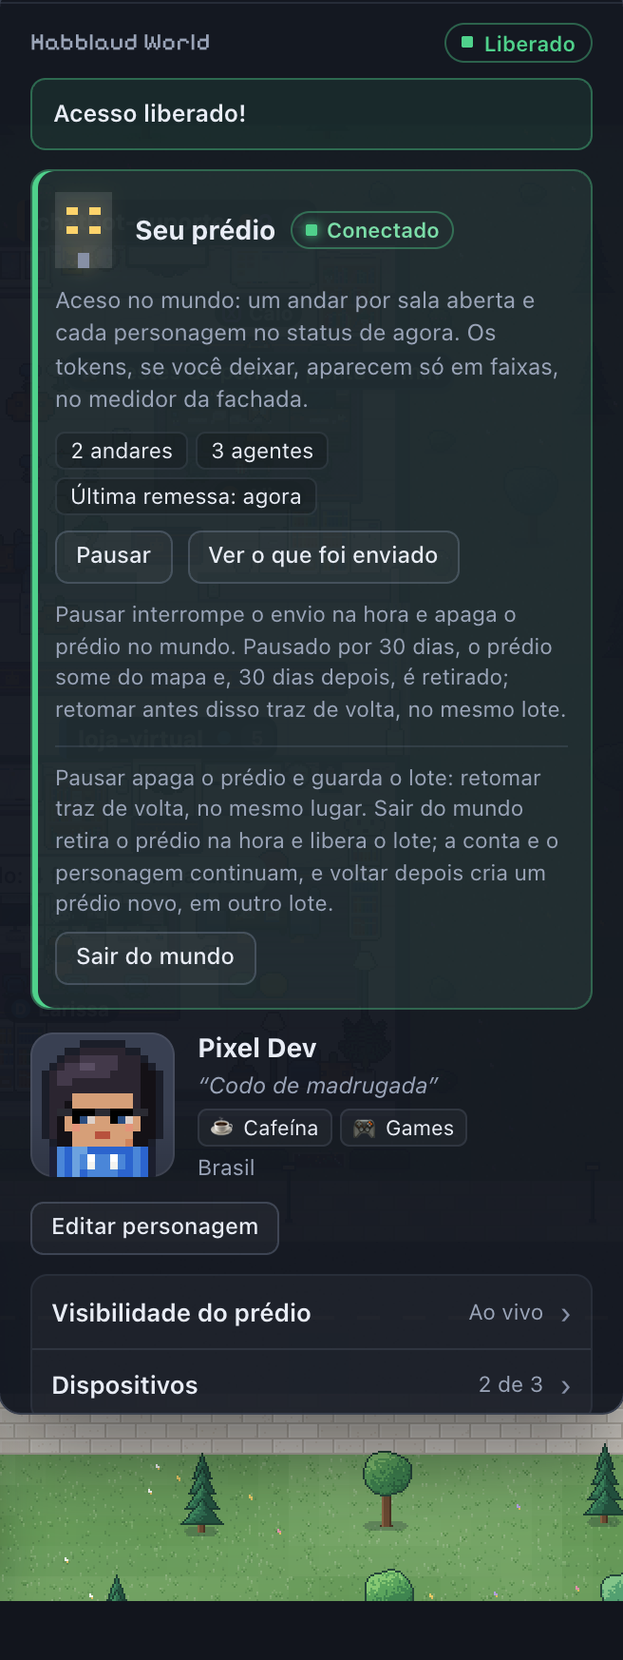
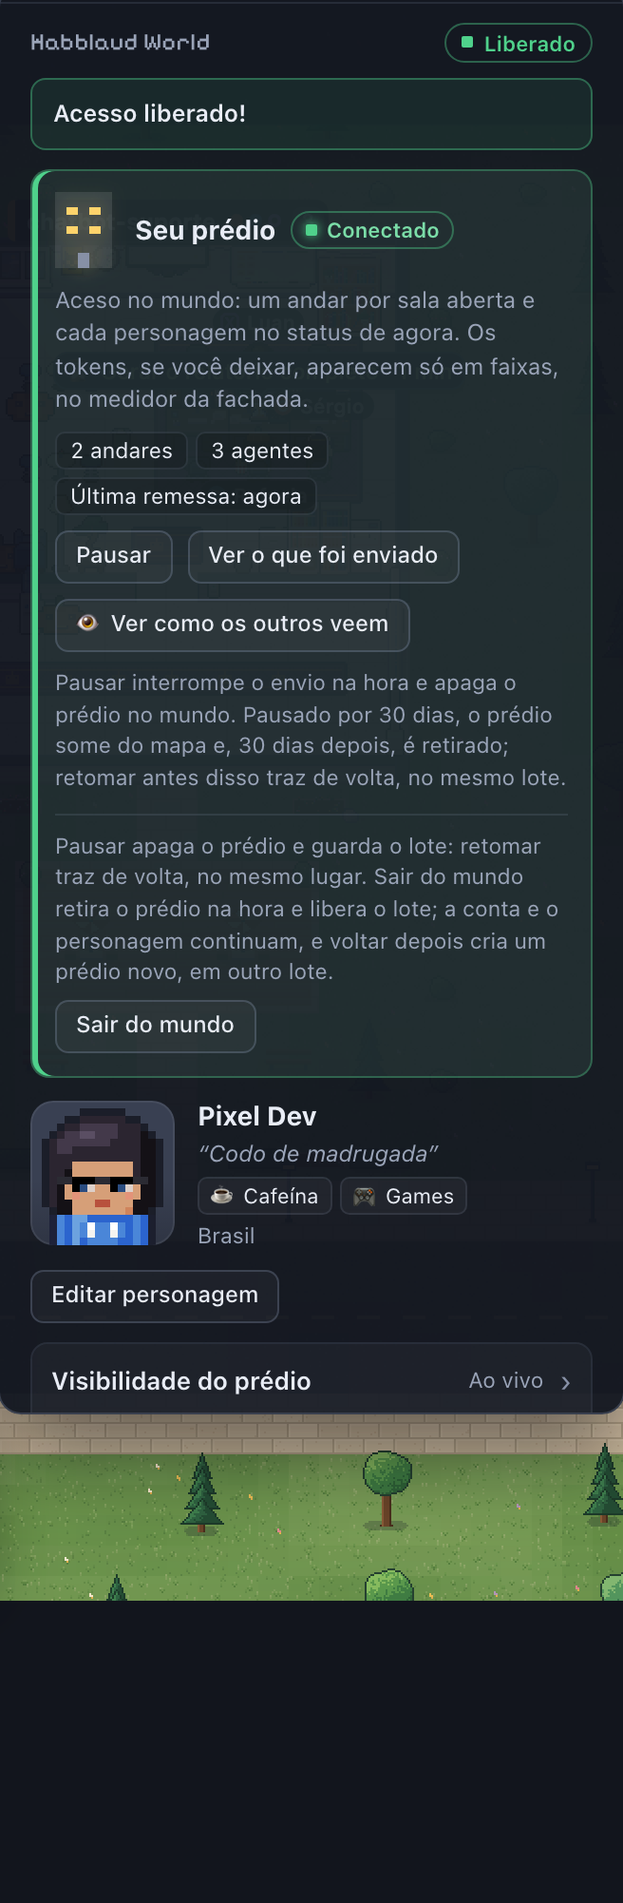
World: traduções, CHANGELOG, READMEs e as capturas da visita
Textos da visita em inglês, espanhol e francês (a porta vira "Entrar (E)"
e o botão "Sair do prédio", sem colidir com o Entrar e o Sair da conta).
O CHANGELOG ganha "Visitar um prédio (Fase 4)"; os quatro READMEs, a
linha da visita com as capturas. npm run shots:world fotografa
world-visita.png e world-visita-painel.png (e confere que nenhuma rota fora
de /api/world/* sai durante a visita); a cidade e o cartão Seu prédio,
refeitos. O exemplo da demonstração alterna os status com variedade.

Claude-Session: https://claude.ai/code/session_0184odBfMtHbNdi3CwshGHuK

diff --git a/shared/locales/fr.ts b/shared/locales/fr.ts
@@ -3020,11 +3020,8 @@ export const FR: Readonly<Record<string, string>> = {
   "correr": "courir",
   "clique": "clic",
   "ir até lá": "y aller",
-  "porta": "porte",
   "escritório": "bureau",
   "Chegue perto da porta de um prédio e aperte E.": "Approchez-vous de la porte d'un immeuble et appuyez sur E.",
-  "Visitar o prédio de {0}: em breve.": "Visiter l'immeuble de {0} : bientôt.",
-  "Visitar: em breve.": "Visiter : bientôt.",
   "Devagar: o mundo pediu um tempo entre as ações.": "Doucement : le monde demande une pause entre les actions.",
   "Aviso do Habblaud World.": "Avis de Habblaud World.",
   "Minimapa: clique para levar a câmera até lá": "Mini-carte : cliquez pour y déplacer la caméra",
@@ -3035,4 +3032,44 @@ export const FR: Readonly<Record<string, string>> = {
   "Você ficou um tempo parado.": "Vous êtes resté immobile un moment.",
   "O Habblaud World vai reiniciar: a conexão cai e volta sozinha.": "Habblaud World va redémarrer : la connexion coupe et revient toute seule.",
   "Sua conta saiu do mundo: o prédio volta com \"Voltar ao mundo\", em Configurações.": "Votre compte a quitté le monde : l'immeuble revient avec « Revenir dans le monde », dans Réglages.",
+  "Entrar (E)": "Entrer (E)",
+  "entrar": "entrer",
+  "Sair do prédio": "Sortir",
+  "Ver como os outros veem": "Voir comme les autres",
+  "Entrar no seu prédio pela cidade e ver o que quem visita vê (sem nada do escritório real)": "Entrer dans votre immeuble par la ville et voir ce que voient les visiteurs (rien du vrai bureau)",
+  "Avisar quando alguém visitar": "Prévenir quand quelqu'un visite",
+  "Um aviso quando o primeiro visitante entra no seu prédio. Você vê só quantos estão lá dentro, nunca quem.": "Un avis quand le premier visiteur entre dans votre immeuble. Vous voyez seulement combien sont à l'intérieur, jamais qui.",
+  "Alguém entrou no seu prédio no Habblaud World.": "Quelqu'un est entré dans votre immeuble sur Habblaud World.",
+  "1 visitante agora": "1 visiteur en ce moment",
+  "{0} visitantes agora": "{0} visiteurs en ce moment",
+  "Este prédio não está no mundo agora.": "Cet immeuble n'est pas dans le monde en ce moment.",
+  "O prédio saiu do mundo: você voltou para a rua.": "L'immeuble a quitté le monde : vous êtes de retour dans la rue.",
+  "Chegue mais perto da porta para entrar.": "Approchez-vous de la porte pour entrer.",
+  "O prédio fechou a visitas: você voltou para a rua.": "L'immeuble a fermé aux visites : vous êtes de retour dans la rue.",
+  "Este prédio está fechado a visitas.": "Cet immeuble est fermé aux visites.",
+  "Você não pode mais ficar neste prédio: voltou para a rua.": "Vous ne pouvez plus rester dans cet immeuble : vous êtes de retour dans la rue.",
+  "Você não pode entrar neste prédio.": "Vous ne pouvez pas entrer dans cet immeuble.",
+  "O prédio está lotado (20 visitantes). Tente daqui a pouco.": "L'immeuble est plein (20 visiteurs). Réessayez dans un moment.",
+  "Esperando o dono": "Attend le propriétaire",
+  "visitante": "visiteur",
+  "Visitante": "Visiteur",
+  "Curtir": "J'aime",
+  "Curtir o prédio: em breve": "Aimer l'immeuble : bientôt",
+  "Sair do prédio (Esc)": "Sortir de l'immeuble (Échap)",
+  "Visita": "Visite",
+  "Salas do prédio": "Salles de l'immeuble",
+  "Só o nome, o papel, a ferramenta e o status de cada agente: o resto do escritório não sai do computador do dono.": "Seulement le nom, le rôle, l'outil et le statut de chaque agent : le reste du bureau ne quitte pas l'ordinateur du propriétaire.",
+  "Sair pelo elevador": "Sortir par l'ascenseur",
+  "elevador": "ascenseur",
+  "sair": "sortir",
+  "Saindo do prédio…": "Sortie de l'immeuble…",
+  "apagado": "éteint",
+  "discreto": "discret",
+  "modo discreto": "mode discret",
+  "Seu prédio, como os outros veem": "Votre immeuble, tel que les autres le voient",
+  "Prédio de {0}": "Immeuble de {0}",
+  "esperando o dono": "attend le propriétaire",
+  "de olho no terminal": "surveille le terminal",
+  "Prédio apagado: o dono pausou ou não está com o Habblaud aberto. As salas ficam escuras e vazias.": "Immeuble éteint : le propriétaire a mis en pause ou n'a pas Habblaud ouvert. Les salles sont sombres et vides.",
+  "Modo discreto: o dono não mostra os agentes. As salas aparecem vazias, com a luz acesa.": "Mode discret : le propriétaire ne montre pas les agents. Les salles paraissent vides, lumière allumée.",
 };

diff --git a/shared/locales/es.ts b/shared/locales/es.ts
@@ -3004,11 +3004,8 @@ export const ES: Readonly<Record<string, string>> = {
   "correr": "correr",
   "clique": "clic",
   "ir até lá": "ir allí",
-  "porta": "puerta",
   "escritório": "oficina",
   "Chegue perto da porta de um prédio e aperte E.": "Acércate a la puerta de un edificio y pulsa E.",
-  "Visitar o prédio de {0}: em breve.": "Visitar el edificio de {0}: próximamente.",
-  "Visitar: em breve.": "Visitar: próximamente.",
   "Devagar: o mundo pediu um tempo entre as ações.": "Más despacio: el mundo pidió una pausa entre las acciones.",
   "Aviso do Habblaud World.": "Aviso de Habblaud World.",
   "Minimapa: clique para levar a câmera até lá": "Minimapa: haz clic para llevar la cámara allí",
@@ -3019,4 +3016,44 @@ export const ES: Readonly<Record<string, string>> = {
   "Você ficou um tempo parado.": "Te quedaste quieto un rato.",
   "O Habblaud World vai reiniciar: a conexão cai e volta sozinha.": "Habblaud World se va a reiniciar: la conexión se cae y vuelve sola.",
   "Sua conta saiu do mundo: o prédio volta com \"Voltar ao mundo\", em Configurações.": "Tu cuenta salió del mundo: el edificio vuelve con \"Volver al mundo\", en Configuración.",
+  "Entrar (E)": "Entrar (E)",
+  "entrar": "entrar",
+  "Sair do prédio": "Salir",
+  "Ver como os outros veem": "Ver como lo ven los demás",
+  "Entrar no seu prédio pela cidade e ver o que quem visita vê (sem nada do escritório real)": "Entrar en tu edificio por la ciudad y ver lo que ven quienes visitan (nada de la oficina real)",
+  "Avisar quando alguém visitar": "Avisar cuando alguien visite",
+  "Um aviso quando o primeiro visitante entra no seu prédio. Você vê só quantos estão lá dentro, nunca quem.": "Un aviso cuando el primer visitante entra en tu edificio. Solo ves cuántos hay dentro, nunca quiénes.",
+  "Alguém entrou no seu prédio no Habblaud World.": "Alguien entró en tu edificio en Habblaud World.",
+  "1 visitante agora": "1 visitante ahora",
+  "{0} visitantes agora": "{0} visitantes ahora",
+  "Este prédio não está no mundo agora.": "Este edificio no está en el mundo ahora.",
+  "O prédio saiu do mundo: você voltou para a rua.": "El edificio salió del mundo: volviste a la calle.",
+  "Chegue mais perto da porta para entrar.": "Acércate más a la puerta para entrar.",
+  "O prédio fechou a visitas: você voltou para a rua.": "El edificio se cerró a visitas: volviste a la calle.",
+  "Este prédio está fechado a visitas.": "Este edificio está cerrado a visitas.",
+  "Você não pode mais ficar neste prédio: voltou para a rua.": "Ya no puedes quedarte en este edificio: volviste a la calle.",
+  "Você não pode entrar neste prédio.": "No puedes entrar en este edificio.",
+  "O prédio está lotado (20 visitantes). Tente daqui a pouco.": "El edificio está lleno (20 visitantes). Inténtalo en un rato.",
+  "Esperando o dono": "Esperando al dueño",
+  "visitante": "visitante",
+  "Visitante": "Visitante",
+  "Curtir": "Me gusta",
+  "Curtir o prédio: em breve": "Me gusta el edificio: próximamente",
+  "Sair do prédio (Esc)": "Salir del edificio (Esc)",
+  "Visita": "Visita",
+  "Salas do prédio": "Salas del edificio",
+  "Só o nome, o papel, a ferramenta e o status de cada agente: o resto do escritório não sai do computador do dono.": "Solo el nombre, el rol, la herramienta y el estado de cada agente: el resto de la oficina no sale de la computadora del dueño.",
+  "Sair pelo elevador": "Salir por el ascensor",
+  "elevador": "ascensor",
+  "sair": "salir",
+  "Saindo do prédio…": "Saliendo del edificio…",
+  "apagado": "apagado",
+  "discreto": "discreto",
+  "modo discreto": "modo discreto",
+  "Seu prédio, como os outros veem": "Tu edificio, como lo ven los demás",
+  "Prédio de {0}": "Edificio de {0}",
+  "esperando o dono": "esperando al dueño",
+  "de olho no terminal": "atento a la terminal",
+  "Prédio apagado: o dono pausou ou não está com o Habblaud aberto. As salas ficam escuras e vazias.": "Edificio apagado: el dueño pausó o no tiene Habblaud abierto. Las salas quedan oscuras y vacías.",
+  "Modo discreto: o dono não mostra os agentes. As salas aparecem vazias, com a luz acesa.": "Modo discreto: el dueño no muestra los agentes. Las salas aparecen vacías, con la luz encendida.",
 };

diff --git a/shared/locales/en.ts b/shared/locales/en.ts
@@ -3003,11 +3003,8 @@ export const EN: Readonly<Record<string, string>> = {
   "correr": "run",
   "clique": "click",
   "ir até lá": "go there",
-  "porta": "door",
   "escritório": "office",
   "Chegue perto da porta de um prédio e aperte E.": "Get close to a building's door and press E.",
-  "Visitar o prédio de {0}: em breve.": "Visiting {0}'s building: coming soon.",
-  "Visitar: em breve.": "Visiting: coming soon.",
   "Devagar: o mundo pediu um tempo entre as ações.": "Slow down: the world asked for a pause between actions.",
   "Aviso do Habblaud World.": "Notice from Habblaud World.",
   "Minimapa: clique para levar a câmera até lá": "Minimap: click to move the camera there",
@@ -3018,4 +3015,44 @@ export const EN: Readonly<Record<string, string>> = {
   "Você ficou um tempo parado.": "You stood still for a while.",
   "O Habblaud World vai reiniciar: a conexão cai e volta sozinha.": "Habblaud World is restarting: the connection drops and comes back on its own.",
   "Sua conta saiu do mundo: o prédio volta com \"Voltar ao mundo\", em Configurações.": "Your account left the world: the building comes back with \"Back to the world\", in Settings.",
+  "Entrar (E)": "Enter (E)",
+  "entrar": "enter",
+  "Sair do prédio": "Leave",
+  "Ver como os outros veem": "See it as others do",
+  "Entrar no seu prédio pela cidade e ver o que quem visita vê (sem nada do escritório real)": "Enter your building through the city and see what visitors see (nothing from your real office)",
+  "Avisar quando alguém visitar": "Notify me when someone visits",
+  "Um aviso quando o primeiro visitante entra no seu prédio. Você vê só quantos estão lá dentro, nunca quem.": "A notice when the first visitor enters your building. You only see how many are inside, never who.",
+  "Alguém entrou no seu prédio no Habblaud World.": "Someone entered your building in Habblaud World.",
+  "1 visitante agora": "1 visitor now",
+  "{0} visitantes agora": "{0} visitors now",
+  "Este prédio não está no mundo agora.": "This building isn't in the world right now.",
+  "O prédio saiu do mundo: você voltou para a rua.": "The building left the world: you're back on the street.",
+  "Chegue mais perto da porta para entrar.": "Get closer to the door to go in.",
+  "O prédio fechou a visitas: você voltou para a rua.": "The building closed to visitors: you're back on the street.",
+  "Este prédio está fechado a visitas.": "This building is closed to visitors.",
+  "Você não pode mais ficar neste prédio: voltou para a rua.": "You can't stay in this building anymore: you're back on the street.",
+  "Você não pode entrar neste prédio.": "You can't enter this building.",
+  "O prédio está lotado (20 visitantes). Tente daqui a pouco.": "The building is full (20 visitors). Try again in a bit.",
+  "Esperando o dono": "Waiting for the owner",
+  "visitante": "visitor",
+  "Visitante": "Visitor",
+  "Curtir": "Like",
+  "Curtir o prédio: em breve": "Like the building: coming soon",
+  "Sair do prédio (Esc)": "Leave the building (Esc)",
+  "Visita": "Visit",
+  "Salas do prédio": "Building rooms",
+  "Só o nome, o papel, a ferramenta e o status de cada agente: o resto do escritório não sai do computador do dono.": "Only each agent's name, role, tool and status: the rest of the office never leaves the owner's computer.",
+  "Sair pelo elevador": "Leave by the elevator",
+  "elevador": "elevator",
+  "sair": "leave",
+  "Saindo do prédio…": "Leaving the building…",
+  "apagado": "lights off",
+  "discreto": "discreet",
+  "modo discreto": "discreet mode",
+  "Seu prédio, como os outros veem": "Your building, as others see it",
+  "Prédio de {0}": "{0}'s building",
+  "esperando o dono": "waiting for the owner",
+  "de olho no terminal": "watching the terminal",
+  "Prédio apagado: o dono pausou ou não está com o Habblaud aberto. As salas ficam escuras e vazias.": "Lights off: the owner paused or doesn't have Habblaud open. The rooms are dark and empty.",
+  "Modo discreto: o dono não mostra os agentes. As salas aparecem vazias, com a luz acesa.": "Discreet mode: the owner doesn't show the agents. The rooms look empty, with the lights on.",
 };

diff --git a/client/src/world/city/scene.ts b/client/src/world/city/scene.ts
@@ -824,10 +824,9 @@ export class CityRenderer {
       const x = sx(hl.me.x * TILE) + 12 + 7 * Math.min(2, zoom);
       const y = sy(hl.me.y * TILE) - 20 * Math.min(2.2, Math.max(0.8, zoom));
       const bounce = Math.round(Math.sin(now / 240) * 2);
-      const label = tr('Entrar');
+      const label = tr('Entrar (E)');
       ctx.font = `700 11px ${UI_FONT}`;
-      const tw = Math.ceil(ctx.measureText(label).width);
-      const w = 20 + 6 + tw + 8;
+      const w = Math.ceil(ctx.measureText(label).width) + 16;
       const left = Math.round(x - 10);
       const top = Math.round(y - 10 + bounce);
       ctx.fillStyle = 'rgba(18,21,29,0.86)';
@@ -837,18 +836,8 @@ export class CityRenderer {
       ctx.roundRect(left, top, w, 20, 5);
       ctx.fill();
       ctx.stroke();
-      // a tecla
-      ctx.fillStyle = 'rgba(255,214,140,0.18)';
-      ctx.beginPath();
-      ctx.roundRect(left + 3, top + 3, 14, 14, 3);
-      ctx.fill();
       ctx.fillStyle = '#ffe3a0';
-      ctx.font = `800 11px ${UI_FONT}`;
-      ctx.textAlign = 'center';
-      ctx.fillText('E', left + 10, top + 10.5);
-      ctx.textAlign = 'left';
-      ctx.font = `700 11px ${UI_FONT}`;
-      ctx.fillText(label, left + 23, top + 10.5);
+      ctx.fillText(label, left + 8, top + 10.5);
     }
     void night;
   }

diff --git a/client/src/net/world-stream.ts b/client/src/net/world-stream.ts
@@ -306,12 +306,15 @@ const DISTRICT = 'centro';
 const FAKE_AFK_MS = 60_000;
 /** O servidor aceita o `enter` a até isto da frente da porta (2 tiles + 1 de folga). */
 const FAKE_ENTER_MAX = 3;
-/** Status que os agentes do interior de exemplo vão trocando, um patch a cada 3 s. */
+/**
+ * Status que os agentes do interior de exemplo vão trocando, um patch a cada 3 s (pelo número do patch, de 4 em 4; o
+ * 4º de cada volta só muda os visitantes): o do exemplo, Beatriz responde, Thiago e Larissa voltam ao trabalho.
+ */
 const FAKE_STATUS_CYCLE: ReadonlyArray<Readonly<Record<string, WorldBuildingDetail['floors'][number]['agents'][number]['status']>>> = [
+  {},
+  { Beatriz: 'waiting', Larissa: 'idle', Thiago: 'shell' },
   { Beatriz: 'working', Larissa: 'idle', Thiago: 'shell' },
   { Beatriz: 'working', Larissa: 'working', Thiago: 'working' },
-  { Beatriz: 'waiting', Larissa: 'working', Thiago: 'shell' },
-  { Beatriz: 'waiting', Larissa: 'idle', Thiago: 'shell' },
 ];
 
 /** Eu na cidade falsa: o personagem da conta de exemplo do FakeWorldApi (net/world.ts), o das Configurações. */

diff --git a/client/src/world/city/index.ts b/client/src/world/city/index.ts
@@ -96,6 +96,10 @@ export interface CityScene {
   visitOwn(): void;
   /** A cena Visita aberta agora (null na rua). */
   visit(): VisitScene | null;
+  /** A frente da porta de um prédio da cidade (tiles), ou null (depuração e capturas). */
+  doorOf(buildingId: string): { x: number; y: number } | null;
+  /** Anda até (x, y) tiles pelo A*, como um clique no chão (depuração e capturas). */
+  walkTo(x: number, y: number): boolean;
 }
 
 export function createCityScene(o: CitySceneOptions): CityScene {
@@ -653,6 +657,11 @@ export function createCityScene(o: CitySceneOptions): CityScene {
       else pendingOwn = true;
     },
     visit: () => visit,
+    walkTo: (x, y) => walkTo(x, y, false),
+    doorOf(id) {
+      const b = state.buildings.get(id);
+      return b ? { ...lotDoor(b.lot).front } : null;
+    },
   };
   return scene;
 }

diff --git a/client/src/world/visit/index.ts b/client/src/world/visit/index.ts
@@ -102,7 +102,7 @@ export function createVisitScene(o: VisitSceneOptions): VisitScene {
     attrs: { disabled: true, 'aria-disabled': 'true' },
   });
   const panelBtn = h('button', { class: 'ui-btn ui-visit-bar__panel', type: 'button', attrs: { 'aria-expanded': 'false', 'aria-controls': 'ui-visit-panel' }, on: { click: () => setPanel(!panelOpen) } });
-  const leaveBtn = h('button', { class: 'ui-btn ui-btn--primary ui-visit-bar__leave', type: 'button', text: tr('Sair'), title: tr('Sair do prédio (Esc)'), on: { click: () => leave() } });
+  const leaveBtn = h('button', { class: 'ui-btn ui-btn--primary ui-visit-bar__leave', type: 'button', text: tr('Sair do prédio'), title: tr('Sair do prédio (Esc)'), on: { click: () => leave() } });
   const bar = h(
     'header',
     { class: 'ui-visit-bar', attrs: { 'aria-label': tr('Visita') } },

diff --git a/CHANGELOG.md b/CHANGELOG.md
@@ -83,8 +83,8 @@ sair e o que nunca sai está em [`docs/world/privacidade.md`](docs/world/privaci
   placa com a bandeira, o nome do dono e os ❤ likes. A fileira de baixo de cada quarteirão mostra a fachada com a
   vitrine e a porta; a de cima, com a porta virada para o norte, mostra o telhado com a marquise da entrada e os
   fundos. À noite os postes e as janelas acendem. Anda com setas/WASD (Shift corre) ou clicando (o A* do escritório);
-  a câmera segue, com o zoom de sempre e afastando até ver uns 200 prédios; **E** perto de uma porta avisa que visitar
-  vem em breve. Passar o mouse num prédio abre o cartão (dono, país, estado, andares até "24+", agentes trabalhando,
+  a câmera segue, com o zoom de sempre e afastando até ver uns 200 prédios; perto de uma porta aparece **Entrar (E)**
+  (veja "Visitar um prédio", abaixo). Passar o mouse num prédio abre o cartão (dono, país, estado, andares até "24+", agentes trabalhando,
   esperando e à toa ou "modo discreto", likes, "no mundo desde"); clicar num jogador abre o perfil (personagem, país,
   traços, frase, prédio e likes recebidos). Os outros jogadores andam suaves, um pouco atrás, no ritmo em que as
   posições chegam (5 por segundo para os 20 mais perto, 2,5 para os outros), com o nome em cima; quem para em cima de
@@ -102,12 +102,34 @@ sair e o que nunca sai está em [`docs/world/privacidade.md`](docs/world/privaci
   personagem (`view`) pela mesma conexão do prédio e repassa ao navegador por `GET /api/world/stream` (SSE: o estado
   inteiro ao abrir, depois cada mudança na ordem); fechada a cena, avisa (`view.off`) e nada mais desce. Prédios por
   chunk com revisão (um salto pede a área de novo), jogadores por perto, minimapa e a sua posição ficam só em memória.
-  Os comandos do personagem (`POST /api/world/cmd`: andar, perfil e, nas próximas fases, entrar, like, cumprimento,
-  bloqueio e denúncia) são conferidos campo a campo, no máximo 5 lotes por segundo e só o último passo de cada lote;
+  Os comandos do personagem (`POST /api/world/cmd`: andar, perfil, entrar e sair de um prédio e, nas próximas fases,
+  like, cumprimento, bloqueio e denúncia) são conferidos campo a campo, no máximo 5 lotes por segundo e só o último passo de cada lote;
   no máximo 4 abas com a cidade. Só pelo próprio computador e só pela própria página (nunca por outro site). A
   geometria da cidade (lotes, quarteirões, portas, chunks e o que é caminhável) fica em `shared/world/city.ts`, a
   mesma do servidor do mundo. O seu personagem entra na rua na posição que o servidor do mundo validou (na calçada da
   sua porta ou na praça).
+- **Visitar um prédio (Fase 4):** a até 2 tiles da porta de um prédio, **Entrar (E)** leva para dentro: o escritório
+  do dono como ele vê o dele, com o tema dele, as salas com os nomes fictícios do dia ("Projeto Ipê", "Projeto
+  Jade"...) e os agentes no status de agora (digitando, de mão levantada, de olho no terminal ou à toa, com a vida
+  social simulada no seu navegador), mudando na hora a cada pacote do dono. Você entra pelo elevador com o seu
+  personagem e o crachá de **visitante** e anda com o teclado ou clicando (sem sentar nas mesas). A faixa do topo diz
+  de quem é o prédio, quantos andares e agentes e se está em modo discreto (salas vazias, com a luz acesa) ou apagado
+  (pausado: tudo escuro); o painel ao lado lista as salas e os agentes (nome, papel, ferramenta e status; clicar abre
+  um cartão com isso e nada mais). Nada do que vem do mundo tem horário, então lá dentro não existe pipoca, teia,
+  cronômetro nem "espera há X". **Sair** pelo botão, pelo Esc ou pelo elevador da recepção volta para a calçada em
+  frente à porta. O botão **Curtir** está lá, desabilitado ("em breve"). Prédio fechado a visitas, cheio (20
+  visitantes), bloqueado ou longe demais dá um aviso na tela. Nada que age no escritório existe na visita (nem
+  terminal, gaveta, feed, avisos, pedidos de permissão, mensagens, Meu dia, timelapse, editor ou renomear sala): ela
+  roda num mundo à parte, que só fala com `/api/world/*`, e nenhum passo seu lá dentro sai do computador. As moedinhas
+  da vida social dos agentes visitados ficam numa chave à parte e somem ao sair. **Ver como os outros veem** (no
+  cartão **Seu prédio** e na porta do seu prédio) entra no seu próprio prédio. **Para o dono:** o selo do topo ganha
+  "👀 N" e o cartão **Seu prédio**, "N visitantes agora" (só a contagem, nunca quem); o primeiro visitante de cada
+  conexão dá o aviso "Alguém entrou no seu prédio", desligável em **Configurações › Habblaud World › Avisar quando
+  alguém visitar**. Pelo servidor local, o stream da cena repassa o interior (`building`, `building.patch` com a
+  revisão conferida e `resync {building}` num salto) e os visitantes (`visitors`, também em
+  `meta.world.building.visitors`). No modo demonstração, `?mock=1&world=approved&scene=city` tem prédios para visitar
+  (ao vivo, discreto e apagado); `npm run shots:world` fotografa `docs/screenshots/world-visita.png` e
+  `world-visita-painel.png`.
 - **Voltar ao mundo** (`POST /api/world/join`): depois de sair, o cartão pede a volta ao servidor do mundo
   (`POST /v1/me/building/join`) antes de reconectar; o prédio volta novo, em outro lote. Sair do mundo em outro
   computador também vale aqui: o pacote recusado (`left`) ou a conta marcada como fora do mundo deixam este Habblaud

diff --git a/README.fr.md b/README.fr.md
@@ -795,9 +795,12 @@ personnage restent, et revenir crée un nouvel immeuble).
 
 Le bouton **Monde**, dans la barre du haut, remplace le bureau par la ville : on marche avec les flèches/WASD ou en
 cliquant, la carte de chaque immeuble montre étages, agents et état, et la minicarte reste dans le coin ; en pause ou
-hors du monde, votre immeuble reste éteint, mais vous pouvez vous promener dans la ville. En mode démonstration
-(`?mock=1&world=approved&scene=city`, uniquement des immeubles et des personnes fictifs) : [la ville](docs/screenshots/world-cidade.png)
-et [la carte d'un immeuble](docs/screenshots/world-cartao.png).
+hors du monde, votre immeuble reste éteint, mais vous pouvez vous promener dans la ville. Près de la porte d'un
+immeuble, **Entrer (E)** vous fait entrer : le bureau du propriétaire en direct, avec des salles aux noms fictifs et
+les agents dans leur statut du moment, en lecture seule (ni terminal, ni messages, ni permissions) ; sur le vôtre, vous
+voyez « N visiteurs en ce moment ». En mode démonstration (`?mock=1&world=approved&scene=city`, uniquement des
+immeubles et des personnes fictifs) : [la ville](docs/screenshots/world-cidade.png), [la carte d'un immeuble](docs/screenshots/world-cartao.png),
+[la visite](docs/screenshots/world-visita.png) et [le panneau de la visite](docs/screenshots/world-visita-painel.png).
 
 Le compte reste uniquement sur cet ordinateur, dans `~/.habblaud/world.json` (dans Docker, dans le volume `/data`), et la
 section ne fonctionne que depuis l'ordinateur lui-même. Ce qui sort de l'ordinateur et ce qui n'en sort jamais (en

diff --git a/README.es.md b/README.es.md
@@ -792,9 +792,12 @@ crea un edificio nuevo).
 
 El botón **Mundo**, en la barra superior, cambia la oficina por la ciudad: se camina con las flechas/WASD o haciendo
 clic, la tarjeta de cada edificio muestra pisos, agentes y estado, y el minimapa queda en la esquina; en pausa o fuera
-del mundo, tu edificio queda apagado, pero puedes pasear por la ciudad. En el modo demostración
-(`?mock=1&world=approved&scene=city`, solo edificios y personas ficticios): [la ciudad](docs/screenshots/world-cidade.png)
-y [la tarjeta de un edificio](docs/screenshots/world-cartao.png).
+del mundo, tu edificio queda apagado, pero puedes pasear por la ciudad. Cerca de la puerta de un edificio, **Entrar
+(E)** te lleva adentro: la oficina del dueño en vivo, con salas de nombres ficticios y los agentes en su estado de
+ahora, solo para mirar (sin terminal, mensajes ni permisos); en el tuyo ves "N visitantes ahora". En el modo
+demostración (`?mock=1&world=approved&scene=city`, solo edificios y personas ficticios): [la ciudad](docs/screenshots/world-cidade.png),
+[la tarjeta de un edificio](docs/screenshots/world-cartao.png), [la visita](docs/screenshots/world-visita.png) y
+[el panel de la visita](docs/screenshots/world-visita-painel.png).
 
 La cuenta queda solo en esta computadora, en `~/.habblaud/world.json` (en Docker, en el volumen `/data`), y la sección
 solo funciona desde la propia computadora. Lo que sale y lo que nunca sale de la computadora (en portugués):

diff --git a/README.pt-BR.md b/README.pt-BR.md
@@ -756,8 +756,11 @@ prédio novo).
 
 O botão **Mundo**, na barra do topo, troca o escritório pela cidade: anda-se com setas/WASD ou clicando, o cartão de
 cada prédio mostra andares, agentes e estado, e o minimapa fica no canto; pausado ou fora do mundo, o seu prédio fica
-apagado, mas dá para andar pela cidade. No modo demonstração (`?mock=1&world=approved&scene=city`, só prédios e
-pessoas fictícios): [a cidade](docs/screenshots/world-cidade.png) e [o cartão de um prédio](docs/screenshots/world-cartao.png).
+apagado, mas dá para andar pela cidade. Perto da porta de um prédio, **Entrar (E)** leva para dentro: o escritório do
+dono ao vivo, com as salas de nomes fictícios e os agentes no status de agora, só para ver (nada de terminal,
+mensagens ou permissões); você vê "N visitantes agora" no seu. No modo demonstração (`?mock=1&world=approved&scene=city`,
+só prédios e pessoas fictícios): [a cidade](docs/screenshots/world-cidade.png), [o cartão de um prédio](docs/screenshots/world-cartao.png),
+[a visita](docs/screenshots/world-visita.png) e [o painel da visita](docs/screenshots/world-visita-painel.png).
 
 A conta fica só neste computador, em `~/.habblaud/world.json` (no Docker, no volume `/data`), e a seção só funciona pelo
 próprio computador. O que sai e o que nunca sai do computador: [docs/world/privacidade.md](docs/world/privacidade.md).

diff --git a/README.md b/README.md
@@ -758,8 +758,11 @@ character stay, and coming back creates a new building).
 
 The **World** button in the top bar swaps the office for the city: walk with the arrows/WASD or by clicking, each
 building's card shows floors, agents and status, and the minimap sits in the corner; paused or out of the world, your
-building stays dark, but you can still walk around the city. In demo mode (`?mock=1&world=approved&scene=city`, only
-fictional buildings and people): [the city](docs/screenshots/world-cidade.png) and [a building's card](docs/screenshots/world-cartao.png).
+building stays dark, but you can still walk around the city. Near a building's door, **Enter (E)** takes you inside:
+the owner's live office, with rooms under made-up names and the agents in their current status, view only (no
+terminal, messages or permissions); you see "N visitors now" on yours. In demo mode (`?mock=1&world=approved&scene=city`,
+only fictional buildings and people): [the city](docs/screenshots/world-cidade.png), [a building's card](docs/screenshots/world-cartao.png),
+[the visit](docs/screenshots/world-visita.png) and [the visit panel](docs/screenshots/world-visita-painel.png).
 
 The account stays only on this computer, in `~/.habblaud/world.json` (in Docker, in the `/data` volume), and the section
 only works from this computer. What leaves your computer and what never does (in Portuguese):
